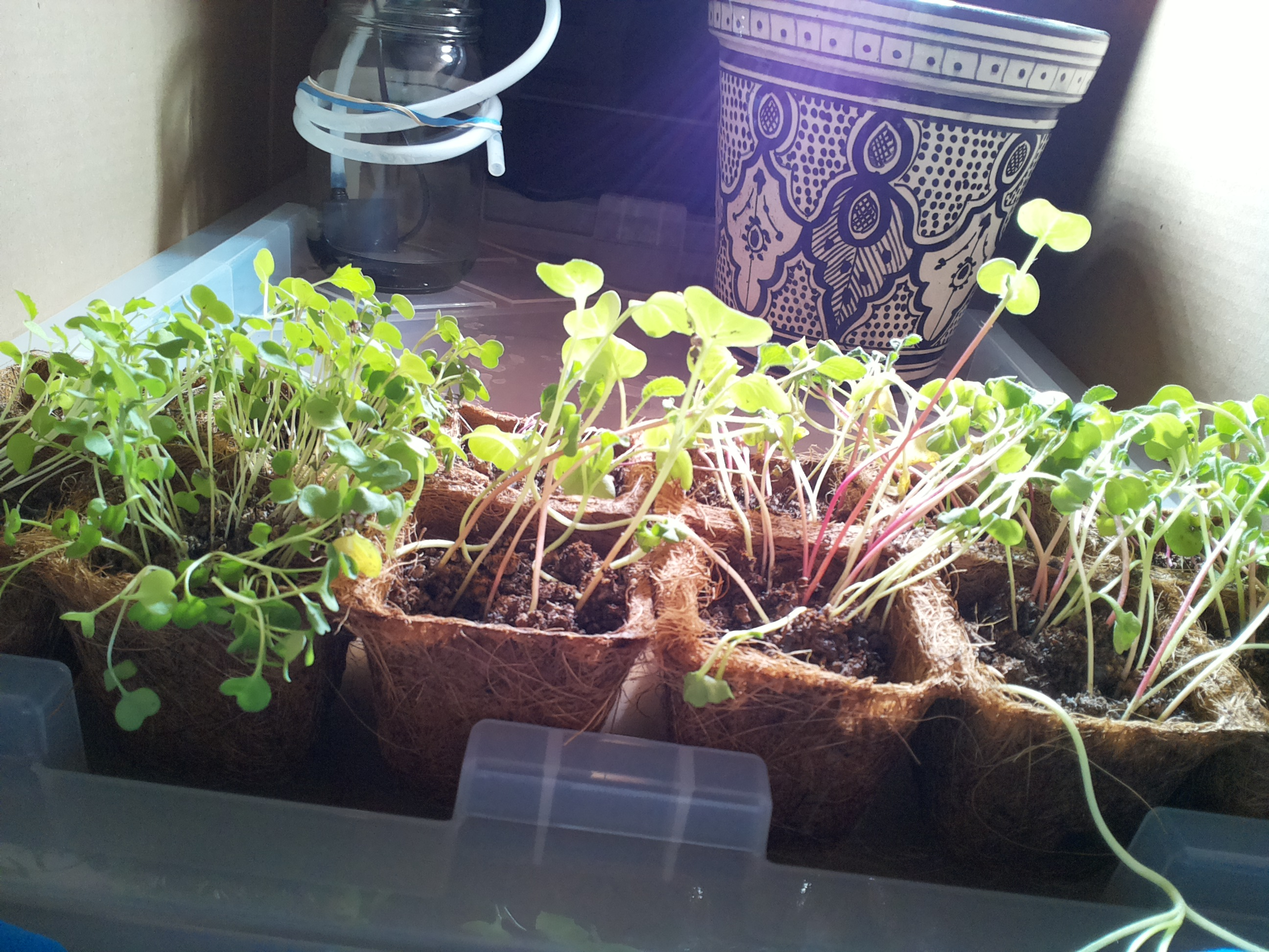
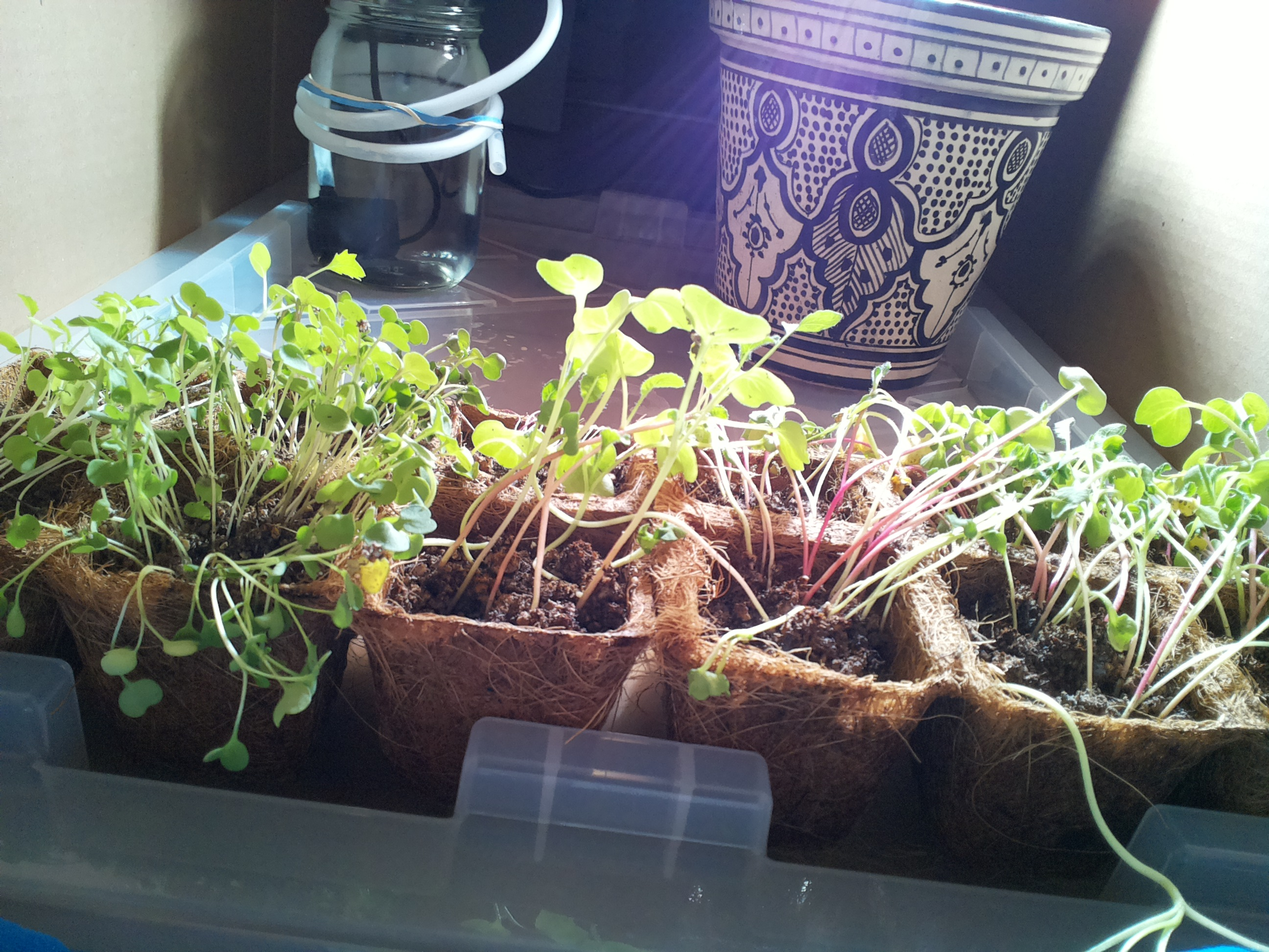
mirror sync 2026-09-13 07:20

diff --git a/home/bubbles/farmer-claude/JOURNAL.md b/home/bubbles/farmer-claude/JOURNAL.md
@@ -451,3 +451,11 @@
 - Lamp: on — correct for photoperiod.
 - Watering: 4s pulse per standing order 2 (8s of 60s daily cap used; water.py OK, pump plug verified OFF after).
 - No changes to standing orders. Next: 07:12 pulse unless surfaces look dark. Still pending: verify lamp-sync.sh fires in logs/cron.log after the next reboot.
+
+### 2026-09-13 07:12 — morning check-in (cron)
+- Photo: seedlings vigorous in all 12 cells (day 20) — tall, leggy, cotyledons broad, turgid, and green; true leaves growing; pink stems on several (brassica-like, normal); a few yellowing older cotyledons (normal). No wilting, mold, pests, or tipping. Tube outlet in place beside the jar pointing down over the lid (confirmed in zoom).
+- Jar: zoomed photo (strong sun flare) shows water still present — glass tinted with refraction through the lower body, waterline around the shoulder, pump cable submerged. Level looks somewhat lower than midweek but still well above the pump body. Keep watching the trend.
+- Soil: mixed — dark damp centers, drier crumbly spots; coir walls pale. Not uniformly dark → pulse warranted.
+- Lamp: on — correct for photoperiod.
+- Watering: 4s pulse per standing order 2 (4s of 60s daily cap used; water.py OK, pump plug verified OFF after).
+- No changes to standing orders. Next: 13:07 observe-only; 19:22 pulse unless surfaces look dark. Still pending: verify lamp-sync.sh fires in logs/cron.log after the next reboot.
